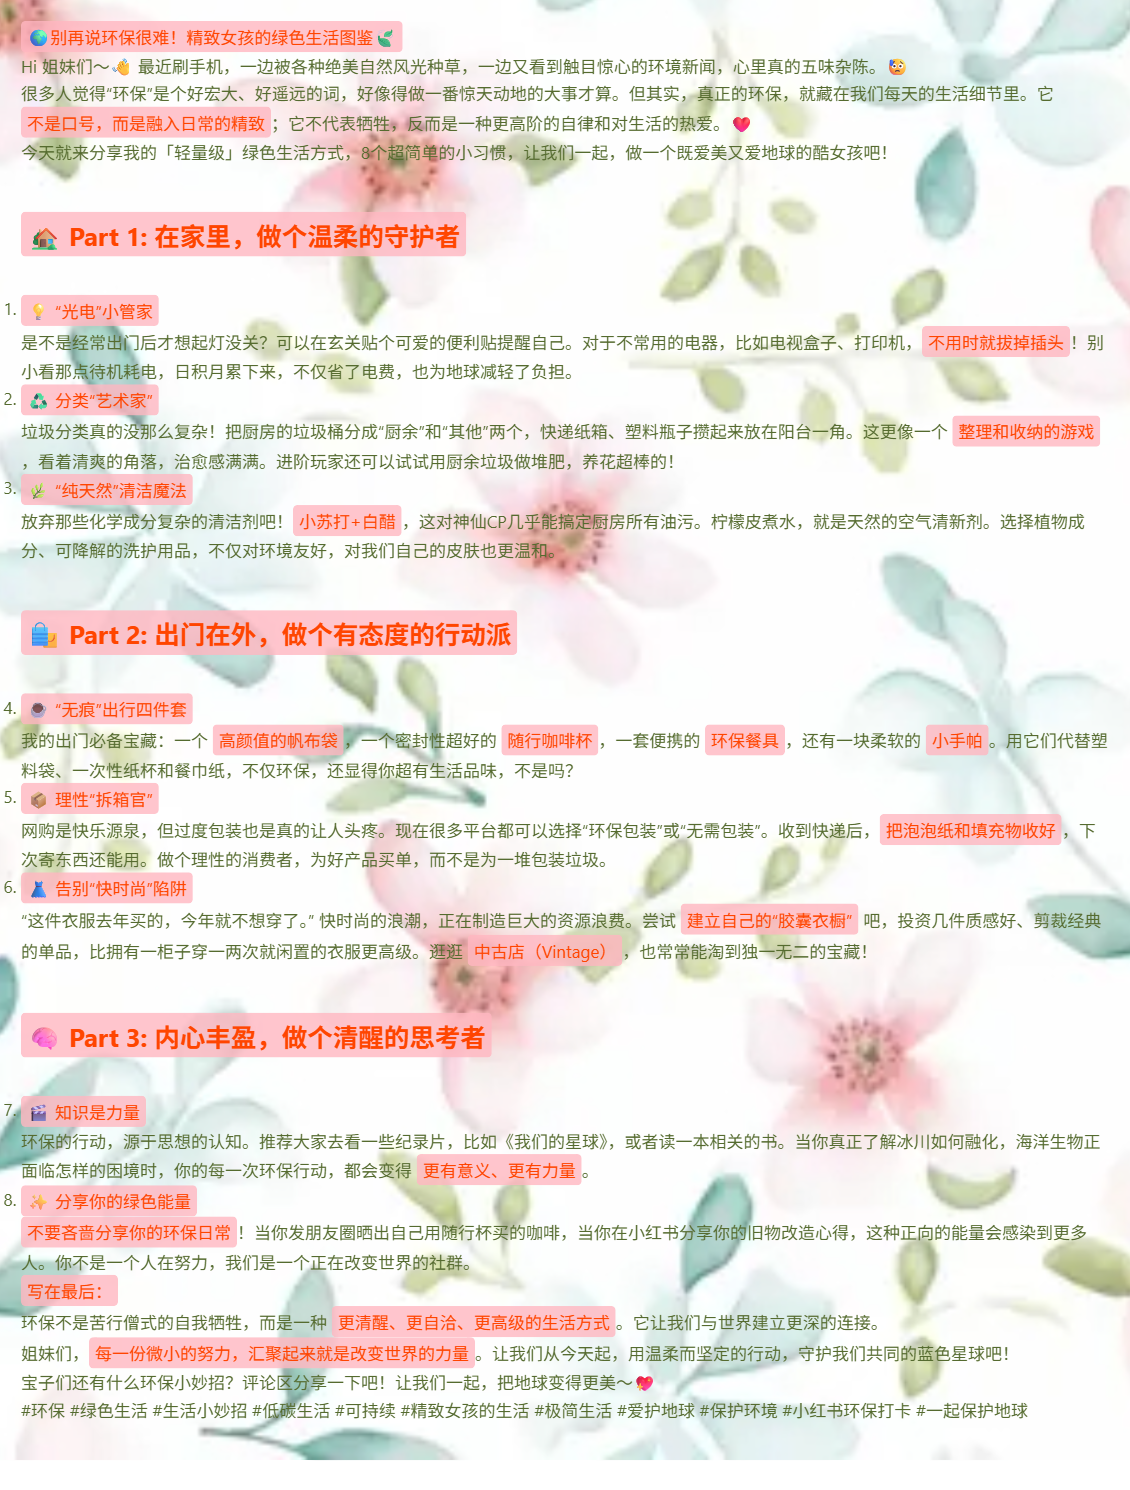
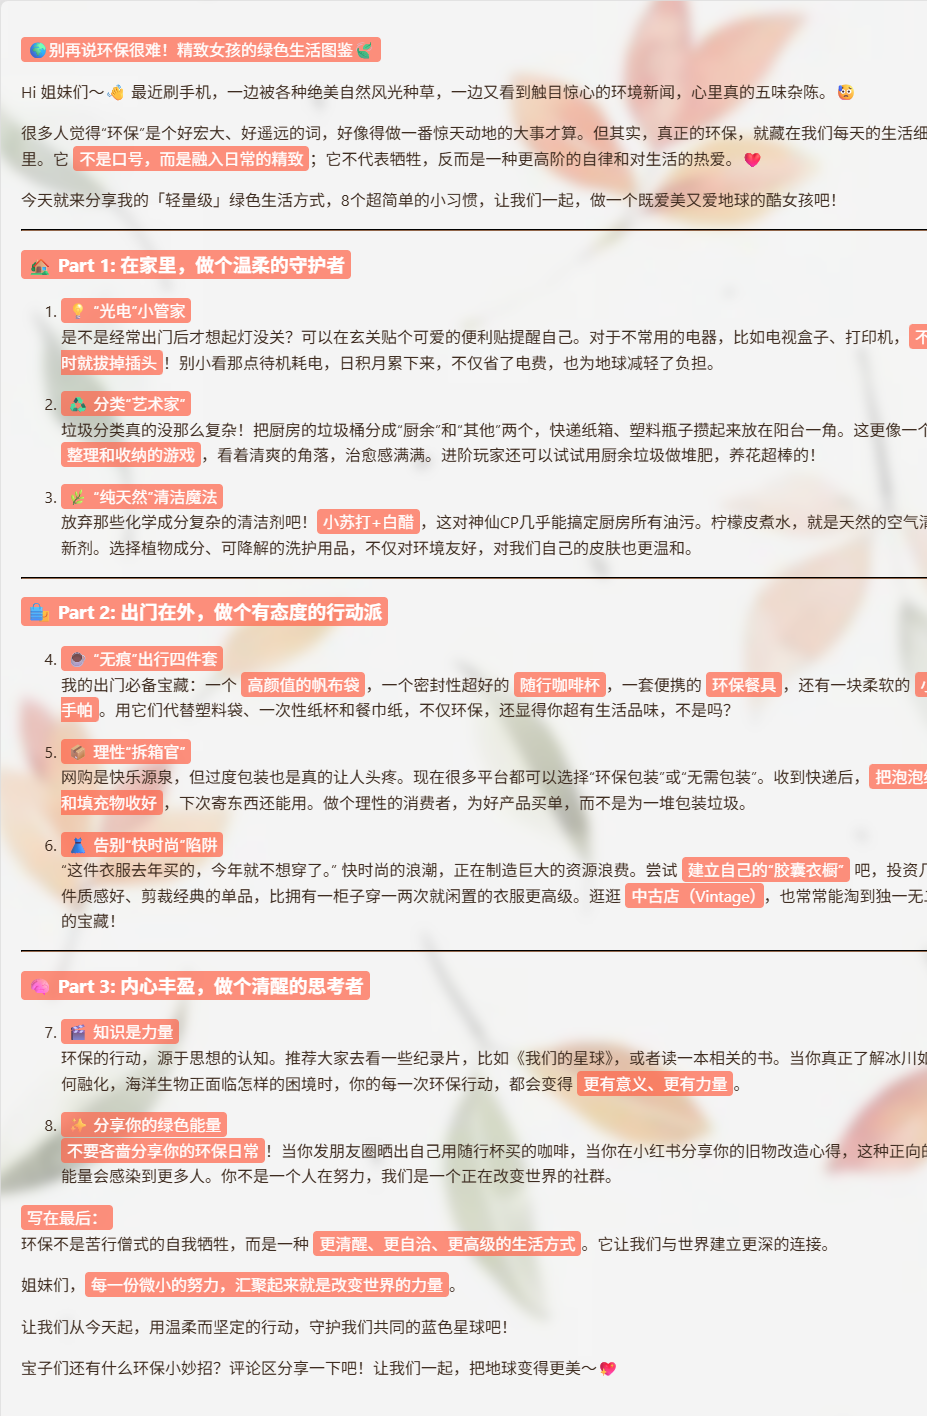
导出完美结构图片
下一步处理美化

diff --git a/js/main.js b/js/main.js
@@ -4,10 +4,6 @@ document.addEventListener('DOMContentLoaded', () => {
     const themeSelect = document.getElementById('theme-select');
     const downloadBtn = document.getElementById('download-btn');
 
-    // Configure marked.js
-    // const renderer = new marked.Renderer();
-    // renderer.strong = (text) => `<span class="keyword">${text}</span>`;
-
     marked.setOptions({
         gfm: true,
         breaks: true,
@@ -16,7 +12,6 @@ document.addEventListener('DOMContentLoaded', () => {
     const render = () => {
         const markdownText = markdownInput.value;
         let html = marked.parse(markdownText);
-        // Post-process the HTML to replace <strong> with our custom span
         html = html.replace(/<strong>/g, '<span class="keyword">').replace(/<\/strong>/g, '</span>');
         htmlOutput.innerHTML = html;
     };
@@ -24,85 +19,57 @@ document.addEventListener('DOMContentLoaded', () => {
     const switchTheme = () => {
         const selectedTheme = themeSelect.value;
         const backgroundContainer = document.getElementById('background-container');
-
-        // Set the theme class on the body for text/preview area styling
         document.body.className = `${selectedTheme}-theme`;
-
-        // Also set a dedicated class on the background container for the image
-        // This makes the CSS much cleaner.
         backgroundContainer.className = `bg-${selectedTheme}`;
     };
 
     const downloadImage = async () => {
-        const main = document.querySelector('main');
         const preview = document.getElementById('html-output');
-        const editor = document.getElementById('markdown-input');
-        const resizer = document.getElementById('resizer');
         const background = document.getElementById('background-container');
 
-        // --- 1. Save original styles ---
-        const originalState = {
-            main: {
-                height: main.style.height,
-                gridTemplateColumns: main.style.gridTemplateColumns,
-            },
-            preview: {
-                height: preview.style.height,
-                overflow: preview.style.overflow,
-            },
-            editorDisplay: editor.style.display,
-            resizerDisplay: resizer.style.display,
-        };
+        // --- Final Strategy: dom-to-image-more ---
 
-        // --- 2. Prepare for capture by "unconstraining" the preview element ---
-        // Temporarily hide other elements and let the preview take full width
-        main.style.gridTemplateColumns = '1fr';
-        editor.style.display = 'none';
-        resizer.style.display = 'none';
-        
-        // Let the container and preview expand to the full content height
-        main.style.height = 'auto';
-        preview.style.height = 'auto';
-        preview.style.overflow = 'visible';
-
-        // --- 3. Create a temporary background element INSIDE the preview area ---
-        // This ensures the background is part of the captured element
-        const bgComputedStyle = window.getComputedStyle(background);
-        const innerBg = document.createElement('div');
-        innerBg.style.position = 'absolute';
-        innerBg.style.top = '0';
-        innerBg.style.left = '0';
-        innerBg.style.width = '100%';
-        innerBg.style.height = `${preview.scrollHeight}px`; // Use the full scroll height
-        innerBg.style.zIndex = '-1';
-        innerBg.style.backgroundImage = bgComputedStyle.backgroundImage;
-        innerBg.style.filter = bgComputedStyle.filter;
-        innerBg.style.backgroundSize = 'cover';
-        innerBg.style.backgroundPosition = 'center';
-        innerBg.style.transform = 'scale(1.1)';
-        preview.style.position = 'relative';
-        preview.prepend(innerBg);
-
-        // --- HTML2CANVAS BUG WORKAROUND ---
-        const keywords = preview.querySelectorAll('.keyword');
-        const originalKeywordDisplays = [];
-        keywords.forEach(keyword => {
-            originalKeywordDisplays.push(keyword.style.display);
-            keyword.style.display = 'inline-block';
+        // 1. Create a wrapper to composite the final image.
+        const captureWrapper = document.createElement('div');
+        Object.assign(captureWrapper.style, {
+            position: 'absolute',
+            left: '-9999px',
+            top: '0',
+            width: `${preview.offsetWidth}px`,
+            height: `${preview.scrollHeight}px`,
         });
 
-        // --- 4. Execute Capture ---
+        // 2. Clone the background and content nodes.
+        const backgroundClone = background.cloneNode(true);
+        const contentClone = preview.cloneNode(true);
+
+        // 3. Style the clones for proper composition.
+        Object.assign(backgroundClone.style, {
+            position: 'absolute', top: '0', left: '0',
+            width: '100%', height: '100%',
+        });
+        Object.assign(contentClone.style, {
+            position: 'absolute', top: '0', left: '0',
+            width: '100%', height: '100%',
+        });
+
+        // 4. Assemble the layers.
+        captureWrapper.appendChild(backgroundClone);
+        captureWrapper.appendChild(contentClone);
+
+        // 5. Append to body.
+        document.body.appendChild(captureWrapper);
+
         try {
-            const canvas = await html2canvas(preview, {
-                useCORS: true,
-                backgroundColor: null,
-                // Ensure html2canvas uses the full scroll height for rendering
-                height: preview.scrollHeight,
-                windowHeight: preview.scrollHeight,
+            // 6. Use domtoimage.toPng to capture the composed element.
+            const dataUrl = await domtoimage.toPng(captureWrapper, {
+                width: captureWrapper.offsetWidth,
+                height: captureWrapper.offsetHeight,
             });
 
+            // 7. Trigger download.
             const a = document.createElement('a');
-            a.href = canvas.toDataURL('image/png');
+            a.href = dataUrl;
             a.download = 'xiaohongshu-note.png';
             document.body.appendChild(a);
             a.click();
@@ -110,24 +77,12 @@ document.addEventListener('DOMContentLoaded', () => {
 
         } catch (error) {
             console.error('截图失败，错误信息:', error);
-            alert('截图失败！请打开开发者工具(F12)查看控制台(Console)中的错误信息。');
+            alert(`截图失败！请打开开发者工具(F12)查看控制台(Console)中的错误信息。\n\n${error}`);
         } finally {
-            // --- 5. Restore original styles ---
-            main.style.height = originalState.main.height;
-            main.style.gridTemplateColumns = originalState.main.gridTemplateColumns;
-            preview.style.height = originalState.preview.height;
-            preview.style.overflow = originalState.preview.overflow;
-            editor.style.display = originalState.editorDisplay;
-            resizer.style.display = originalState.resizerDisplay;
-            preview.style.position = '';
-            // Remove the temporary inner background
-            if (preview.contains(innerBg)) {
-                preview.removeChild(innerBg);
+            // 8. Clean up.
+            if (document.body.contains(captureWrapper)) {
+                document.body.removeChild(captureWrapper);
             }
-            // Restore keyword display styles
-            keywords.forEach((keyword, index) => {
-                keyword.style.display = originalKeywordDisplays[index];
-            });
         }
     };
 
@@ -138,47 +93,35 @@ document.addEventListener('DOMContentLoaded', () => {
     // Initial render and theme
     switchTheme();
     render();
-});
+
     // --- Resizer Logic ---
     const resizer = document.getElementById('resizer');
-    const main = resizer.parentElement;
-
+    const mainGrid = document.querySelector('main');
     let isResizing = false;
 
-    resizer.addEventListener('mousedown', (e) => {
+    resizer.addEventListener('mousedown', () => {
         isResizing = true;
-        // Set a class to the body to prevent text selection during resize
         document.body.style.userSelect = 'none';
         document.body.style.pointerEvents = 'none';
-
         document.addEventListener('mousemove', onMouseMove);
         document.addEventListener('mouseup', onMouseUp);
     });
 
     const onMouseMove = (e) => {
         if (!isResizing) return;
-
-        // Get the left boundary of the main container
-        const mainRect = main.getBoundingClientRect();
+        const mainRect = mainGrid.getBoundingClientRect();
         const newWidth = e.clientX - mainRect.left;
-
-        // Calculate the total width of the main container minus the resizer
-        const totalWidth = main.offsetWidth - resizer.offsetWidth;
-        
-        // Calculate the new fractions for the grid
+        const totalWidth = mainGrid.offsetWidth - resizer.offsetWidth;
         const leftFraction = (newWidth / totalWidth);
         const rightFraction = 1 - leftFraction;
-
-        // Set the new grid template columns
-        // We use flex-grow values for the columns to make them responsive
-        main.style.gridTemplateColumns = `${leftFraction}fr ${resizer.offsetWidth}px ${rightFraction}fr`;
+        mainGrid.style.gridTemplateColumns = `${leftFraction}fr ${resizer.offsetWidth}px ${rightFraction}fr`;
     };
 
     const onMouseUp = () => {
         isResizing = false;
-        // Remove the styles and event listeners
         document.body.style.userSelect = '';
         document.body.style.pointerEvents = '';
         document.removeEventListener('mousemove', onMouseMove);
         document.removeEventListener('mouseup', onMouseUp);
     };
+});

diff --git a/index.html b/index.html
@@ -36,7 +36,7 @@
         </main>
     </div>
     <script src="https://cdn.jsdelivr.net/npm/marked/marked.min.js"></script>
-    <script src="https://cdn.jsdelivr.net/npm/html2canvas@1.4.1/dist/html2canvas.min.js"></script>
+    <script src="https://cdn.jsdelivr.net/npm/dom-to-image-more@3.1.6/dist/dom-to-image-more.min.js"></script>
     <script src="js/main.js"></script>
 </body>
 </html>
